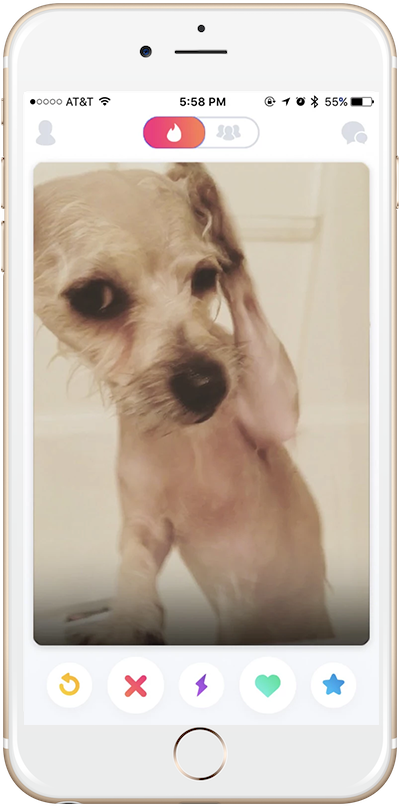
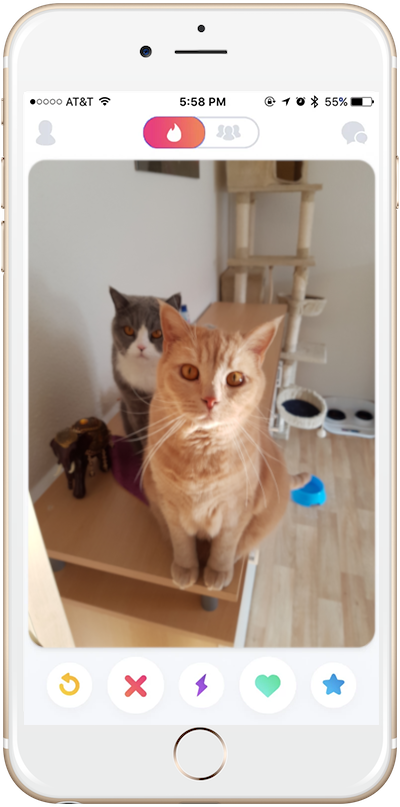
...

diff --git a/index.html b/index.html
@@ -3,8 +3,13 @@
 
 <head>
   <meta charset="utf-8">
-  <title>TinDog</title>
+  <title>TinCat</title>
+  <link rel="stylesheet" href="https://cdn.jsdelivr.net/npm/bootstrap@4.5.3/dist/css/bootstrap.min.css" integrity="sha384-TX8t27EcRE3e/ihU7zmQxVncDAy5uIKz4rEkgIXeMed4M0jlfIDPvg6uqKI2xXr2" crossorigin="anonymous">
   <link rel="stylesheet" href="css/styles.css">
+
+  <script src="https://code.jquery.com/jquery-3.5.1.slim.min.js" integrity="sha384-DfXdz2htPH0lsSSs5nCTpuj/zy4C+OGpamoFVy38MVBnE+IbbVYUew+OrCXaRkfj" crossorigin="anonymous"></script>
+  <script src="https://cdn.jsdelivr.net/npm/popper.js@1.16.1/dist/umd/popper.min.js" integrity="sha384-9/reFTGAW83EW2RDu2S0VKaIzap3H66lZH81PoYlFhbGU+6BZp6G7niu735Sk7lN" crossorigin="anonymous"></script>
+  <script src="https://cdn.jsdelivr.net/npm/bootstrap@4.5.3/dist/js/bootstrap.min.js" integrity="sha384-w1Q4orYjBQndcko6MimVbzY0tgp4pWB4lZ7lr30WKz0vr/aWKhXdBNmNb5D92v7s" crossorigin="anonymous"></script>
 </head>
 
 <body>
@@ -12,6 +17,26 @@
   <section id="title">
 
     <!-- Nav Bar -->
+
+    <nav class="navbar bg-dark navbar-expand-lg navbar-dark">
+      <a class="navbar-brand" href="">Tincat</a>
+      <button class="navbar-toggler" type="button" data-toggle="collapse" data-target="#navbarSupportedContent" aria-controls="navbarSupportedContent" aria-expanded="false" aria-label="Toggle navigation">
+        <span class="navbar-toggler-icon"></span>
+      </button>
+      <div class="collapse navbar-collapse" id="navbarSupportedContent">
+        <ul class="navbar-nav ml-auto">
+          <li class="nav-item">
+            <a class="nav-link" href="">Contact</a>
+          </li>
+          <li class="nav-item">
+            <a class="nav-link" href="">Pricing</a>
+          </li>
+          <li class="nav-item">
+            <a class="nav-link" href="">Download</a>
+          </li>
+        </ul>
+      </div>
+    </nav>
 
 
 
